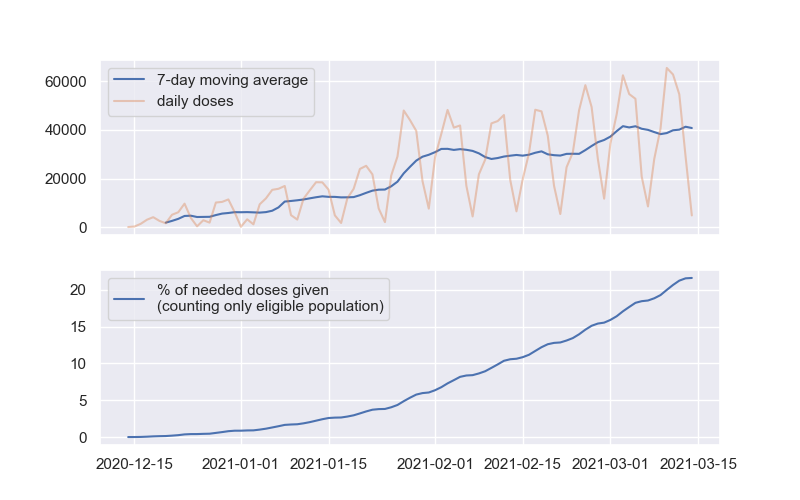
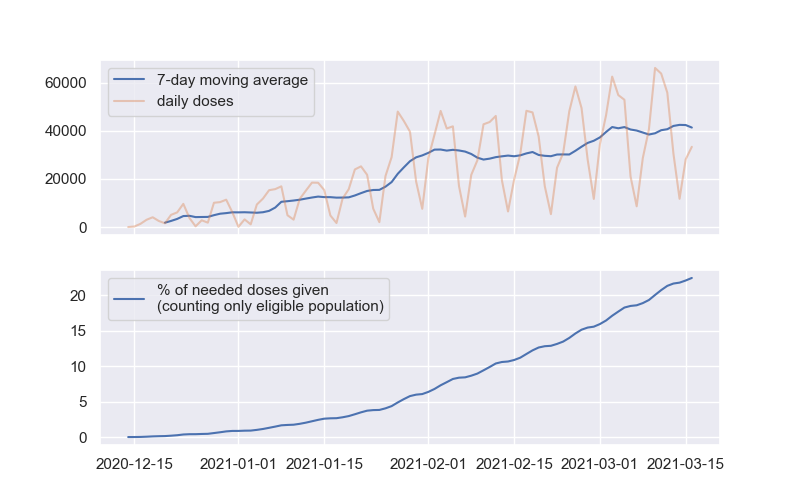
2021-03-17

diff --git a/README.md b/README.md
@@ -10,10 +10,10 @@ Raw data was obtained from https://www.dhs.wisconsin.gov/covid-19/vaccine-data.h
 
 ```
 $ python trax.py
-Data up through 2021-03-14, recent data is usually corrected to be higher
-40804 average doses per day over past 7 days (+763 compared to 2 weeks ago)
-33.7 weeks (2021-11-05) for EVERY PERSON to get 2 doses
-25.6 weeks (2021-09-08) for all eligible people (over 16 years old) to get 2 doses
+Data up through 2021-03-16, recent data is usually corrected to be higher
+41381 average doses per day over past 7 days (+2900 compared to 2 weeks ago)
+33.0 weeks (2021-11-01) for EVERY PERSON to get 2 doses
+24.9 weeks (2021-09-06) for all eligible people (over 16 years old) to get 2 doses
 ```
 
 # Charts
